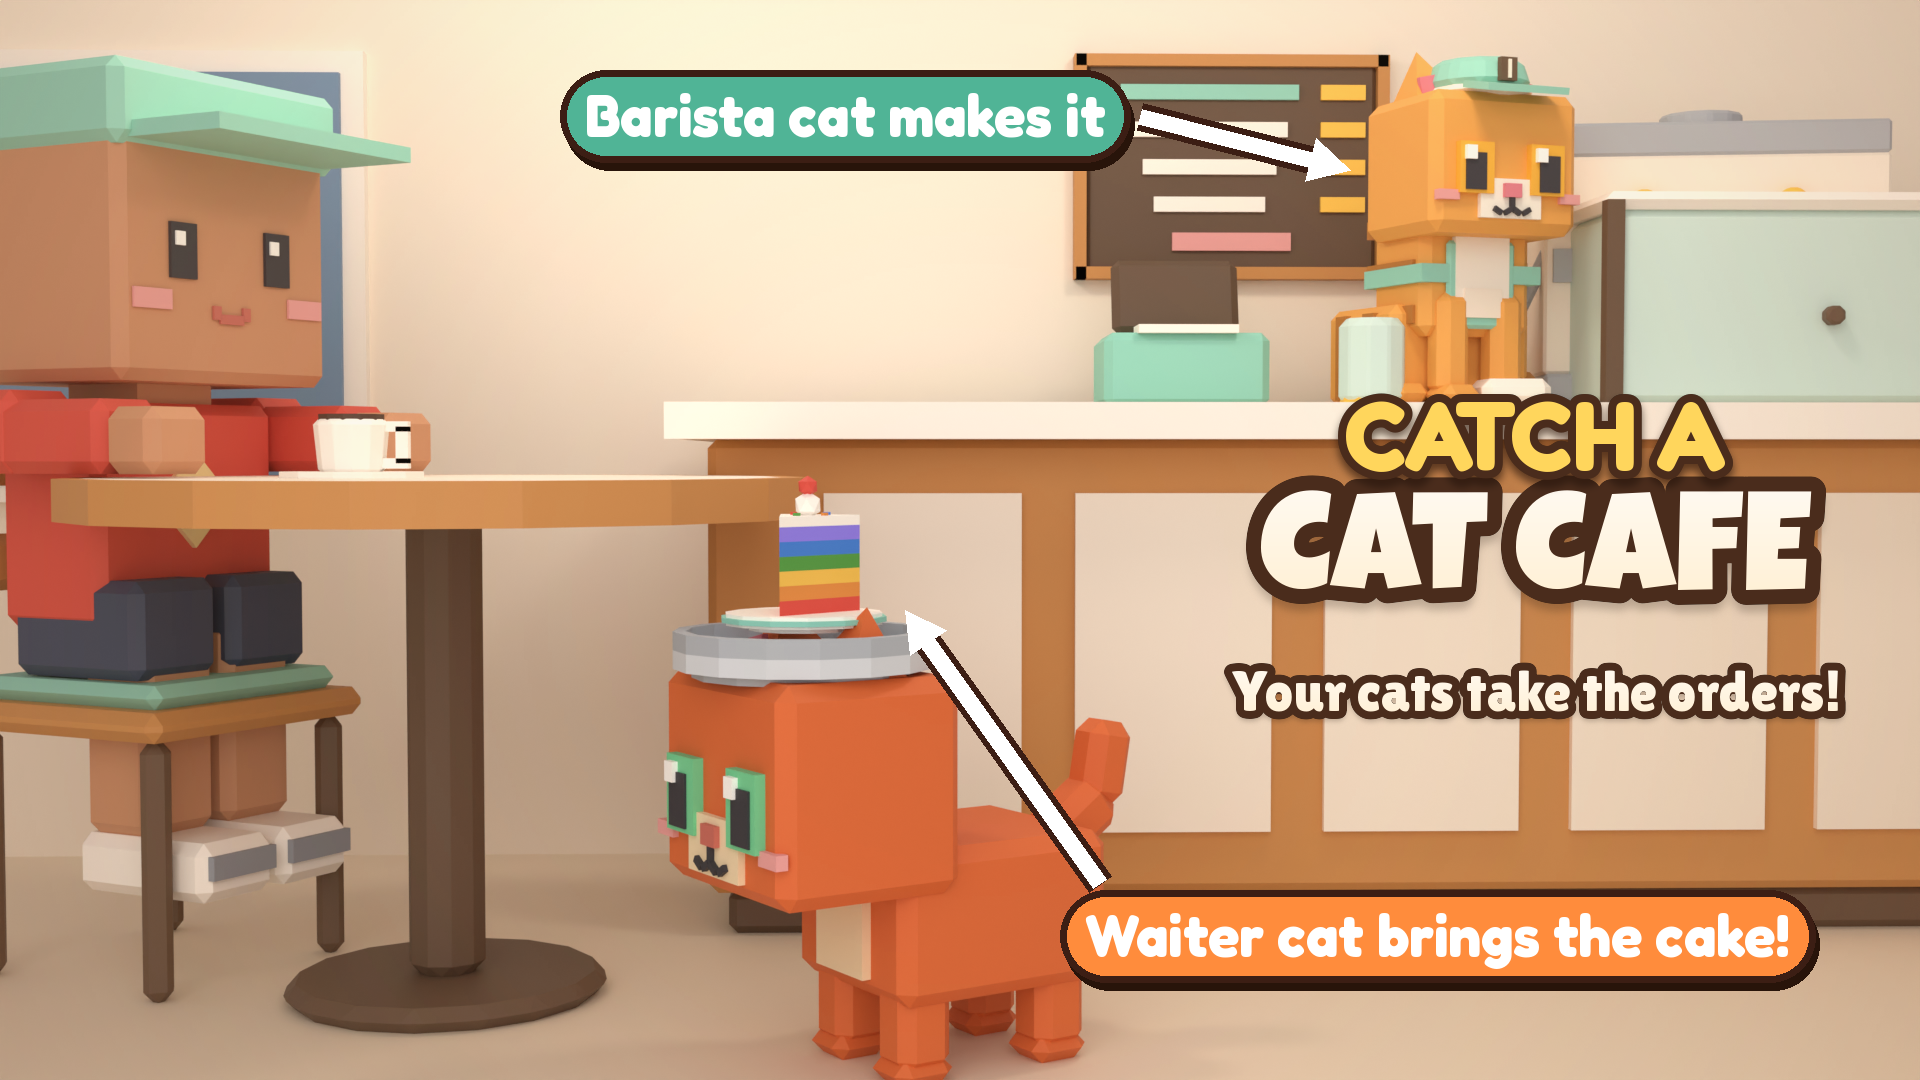
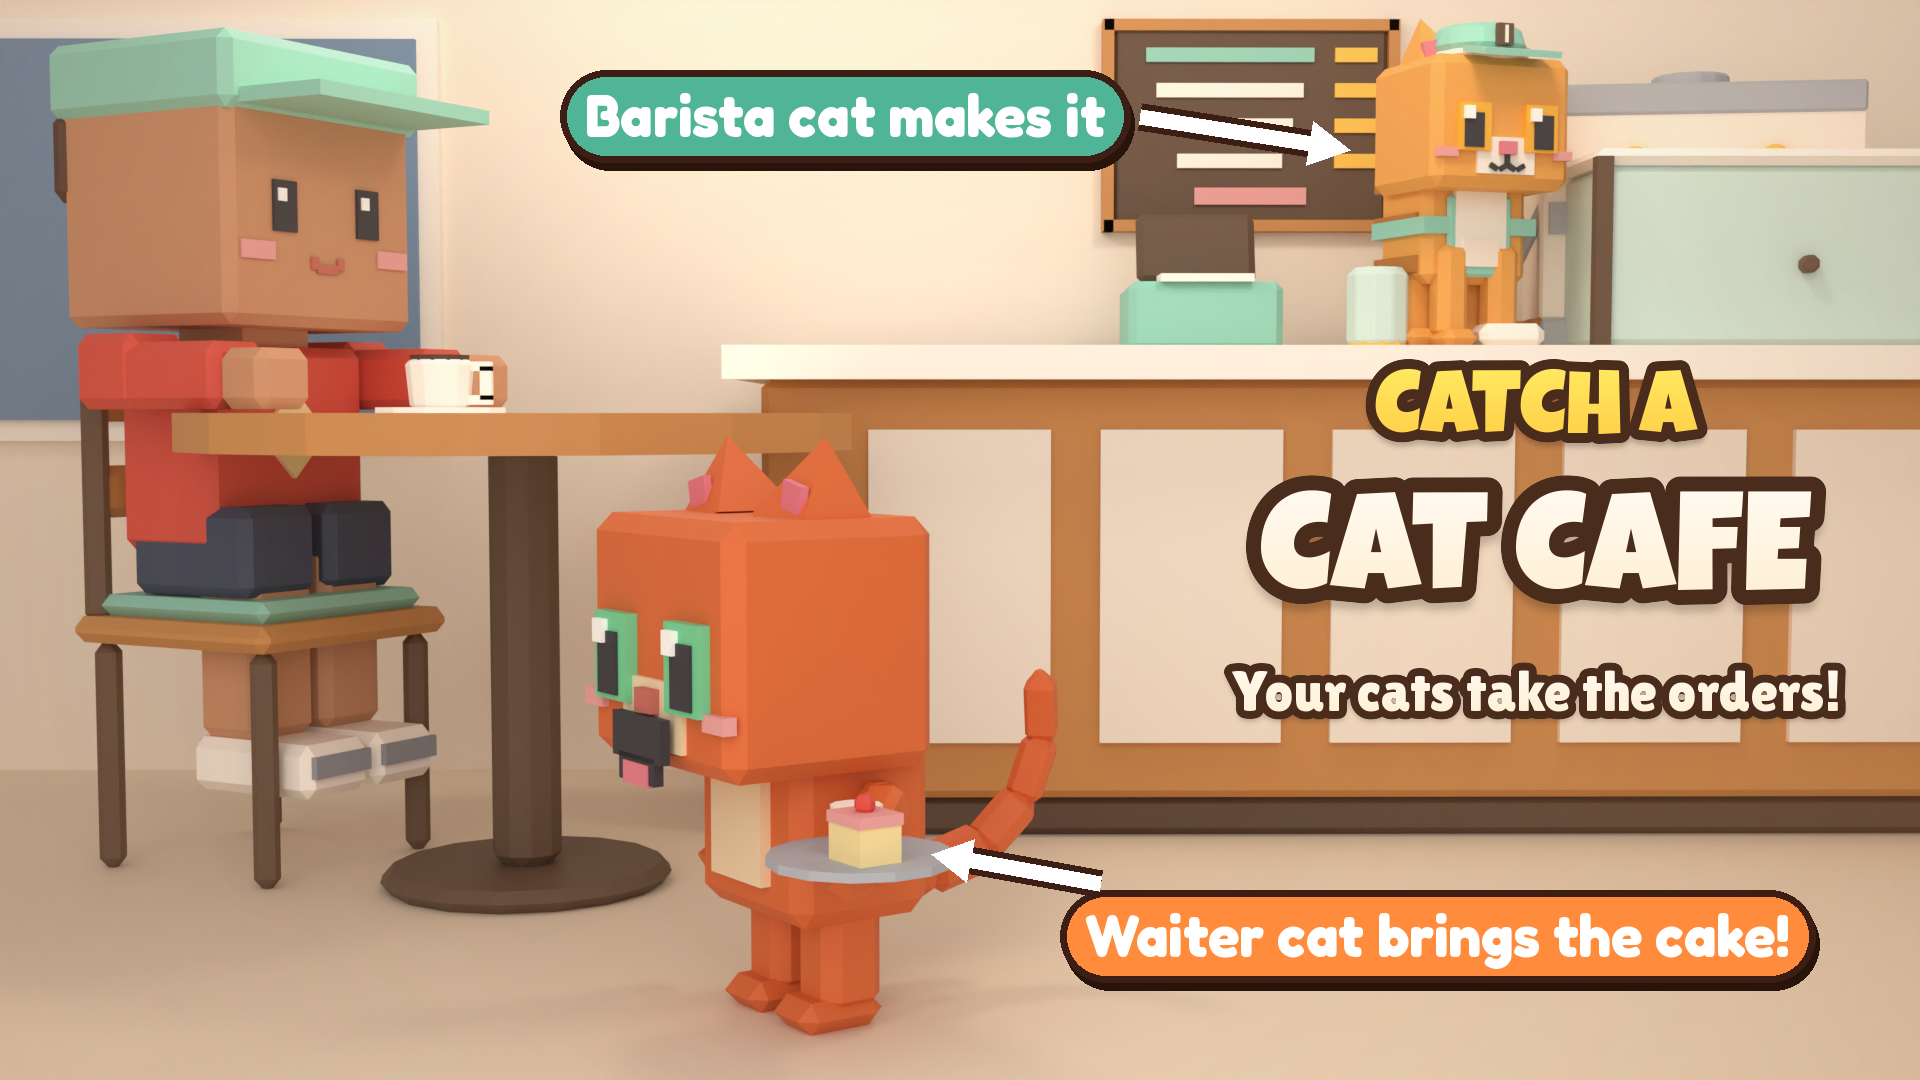
Ads: Model-Agent's rainbow Mythical (slot 7) and re-rendered cats at work (slot 1)
Claude-Session: https://claude.ai/code/session_01DW2uoy8twpm71brKt1HK2p

diff --git a/docs/growth/store-art/2026-11-08-ads/README.md b/docs/growth/store-art/2026-11-08-ads/README.md
@@ -4,13 +4,13 @@ These are the 10 pictures for the first Ads Manager campaign in `docs/growth/ad-
 
 | File | Hook | Made from | Claim, and where it is true |
 |---|---|---|---|
-| `Ad_01_CatsAtWork.png` | Cats serving customers. Derek2 asked for this one: "cats carrying to customers or making food". | Set 2 G, with CATCH A added above the old CAT CAFE title, plus two labels with arrows ("Barista cat makes it", "Waiter cat brings the cake!"), because the tray read as food on the cat's head (Derek2, 2026-11-08) | F90: the Barista and Waiter cats serve orders |
+| `Ad_01_CatsAtWork.png` | Cats serving customers. Derek2 asked for this one: "cats carrying to customers or making food". | Re-rendered by Model-Agent (v2): the waiter cat now stands on its work body and holds the tray out to the seated customer, so it reads as serving, not as food on its head. The labels and the CATCH A CAT CAFE title stay. | F90: the Barista and Waiter cats serve orders |
 | `Ad_02_BellhopCafe.png` | Cute cat and the brand | Set 3 P v3, unchanged | The Bellhop Cat is the free starter cat (F96) |
 | `Ad_03_MythicalCatch.png` | Catch moment | Set 3 N v2, unchanged | The Balloon Cat is Mythical in Catalog, and the player swings the net |
 | `Ad_04_TopEarner.png` | Income | Set 3 L v2, unchanged | Mythical 75/s x Sewer 81 = 6,075/s (Catalog `AREA_INCOME`) |
 | `Ad_05_DecorateCafe.png` | Decorating your cafe (Derek2 2026-11-08: "show cute decor and customizing cafe") | New: 8 decor pieces from the preview renders (jukebox, duck fountain, blossom tree, bathtub sofa, cat tree tower, ice cream counter, mushroom lamp, porch swing) | All are decor pieces in Catalog (crate decor, earned in play) |
 | `Ad_06_EarnOffline.png` | Earn while offline (Derek2, 2026-11-08: "can also use earn offline for ads") | New: night sky with the Sleepy Cat (Ragdoll) in its nightcap | `Config.OfflineRate = 0.5` for up to 8 hours, free for everyone (the pass raises it, but the picture doesn't mention the pass) |
-| `Ad_07_RescueCats.png` | Rescuing stuck cats. This is a placeholder until the rainbow Mythical render ("1 IN 5,000+") arrives, then that picture replaces it (Derek2, 2026-11-08). | New: the Park rescue tree with its stuck cat | RescueService; `Config.GoldChanceRescue = 0.12`, so some rescued cats turn out gold |
+| `Ad_07_RainbowMythical.png` | Rainbow Mythical odds (Derek2, 2026-11-08) | Rendered by Model-Agent in Blender: Wisp (Mythical, Woods) in the F99 rainbow coat on set 3 K's purple-ray layout; sources in `/mnt/project-files/Model-Agent/ads-2026-11-08/` | "1 IN 5,000+": Mythical is 1.2% in every area's stray odds and `RainbowChanceNet = 0.015`, so about 1 in 5,556 per stray |
 | `Ad_08_RainbowCats.png` | Rainbow cats | Set 2 F, with CATCH A added and the pill changed from x3 to **x2** | `Config.RainbowMultiplier = 2` (Derek2, 2026-11-07) |
 | `Ad_09_FiftyCats.png` | Collection | New: 12 cat cards from the preview renders, with rarity borders in the game's rarity colours | 50 catchable cats in Catalog; each card's rarity matches Catalog |
 | `Ad_10_GoldenCats.png` | Gold cats | New: Blossom next to its gold twin | Any stray can roll gold (`GoldChanceNet` / `GoldChanceBait`), and a gold cat earns `GoldMultiplier = 1.5` |

diff --git a/docs/growth/ad-campaign-plan-2026-11-08.md b/docs/growth/ad-campaign-plan-2026-11-08.md
@@ -28,7 +28,7 @@ The finished pictures are in `store-art/2026-11-08-ads/`, and its README has the
 | 4 | Income (+$6,075/s) | `Ad_04_TopEarner.png` |
 | 5 | Decorate your cafe | `Ad_05_DecorateCafe.png` |
 | 6 | Earn while offline (Derek2, 2026-11-08) | `Ad_06_EarnOffline.png` |
-| 7 | Rescue stuck cats (placeholder until the rainbow Mythical "1 IN 5,000+" render is ready) | `Ad_07_RescueCats.png` |
+| 7 | Rainbow Mythical, 1 in 5,000+ | `Ad_07_RainbowMythical.png` |
 | 8 | Rainbow cats, x2 money | `Ad_08_RainbowCats.png` |
 | 9 | Collection: 50 cats to catch | `Ad_09_FiftyCats.png` |
 | 10 | Golden cats | `Ad_10_GoldenCats.png` |
